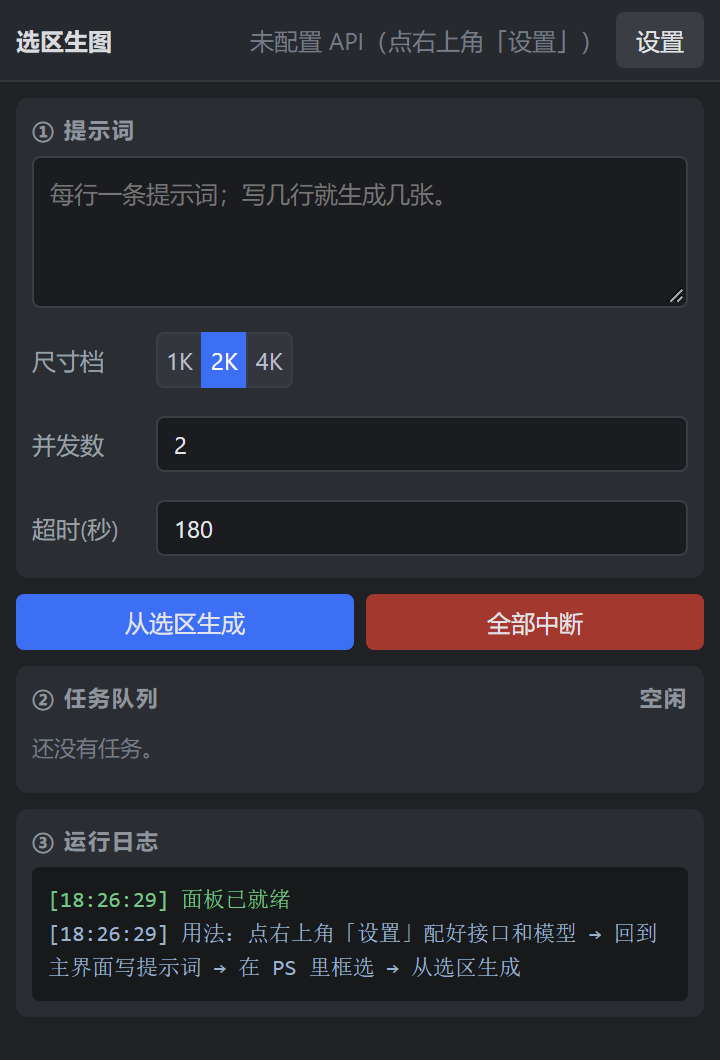
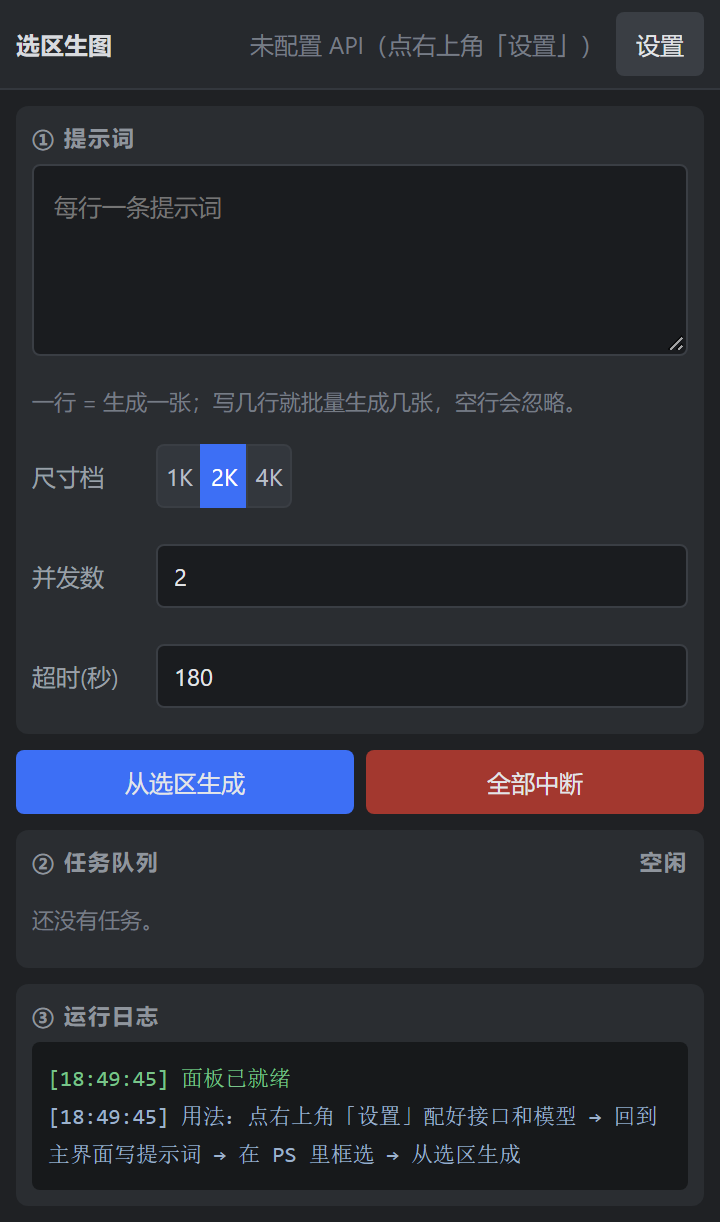
style(ui): 参数行再放宽一档，去掉会裁字的 overflow；多行框改像素行高并挪走长占位符

diff --git a/index.html b/index.html
@@ -94,14 +94,13 @@
     .row {
       display: flex;
       align-items: center;
-      height: 34px;
-      min-height: 34px;
-      max-height: 34px;
+      height: 42px;
+      min-height: 42px;
+      max-height: 42px;
       margin-bottom: 8px;
-      overflow: hidden;
     }
     .row:last-child { margin-bottom: 0; }
-    .label { width: 62px; flex: 0 0 62px; color: #9aa0a8; line-height: 34px; }
+    .label { width: 62px; flex: 0 0 62px; color: #9aa0a8; line-height: 42px; }
     .grow { flex: 1 1 auto; min-width: 0; display: flex; align-items: center; }
     input[type="text"], input[type="password"], input[type="number"], textarea, select {
       width: 100%;
@@ -118,20 +117,28 @@
        框外、上沿被裁掉，在 PS 里看到的就是「字没露全」。上下各留 4px 内边距，
        18px 行高正好填满 28px 的框。 */
     input[type="text"], input[type="password"], input[type="number"], select {
-      height: 28px;
-      min-height: 28px;
-      max-height: 28px;
+      height: 32px;
+      min-height: 32px;
+      max-height: 32px;
       min-width: 0;
-      padding: 4px 8px;
+      padding: 6px 8px;
       line-height: 18px;
     }
-    textarea { resize: vertical; min-height: 76px; padding: 8px; line-height: 1.6; }
+    /* 多行框同样要写死像素行高：写 1.6 这种相对值，UXP 会按宿主字号算，
+       算出来的行高比浏览器大，最后一行就被下沿切掉。 */
+    textarea {
+      resize: vertical;
+      height: 96px;
+      min-height: 96px;
+      padding: 10px;
+      line-height: 20px;
+    }
     button {
       background: #3a3e44;
       color: #e3e5e8;
       border: none;
       border-radius: 4px;
-      height: 28px;
+      height: 32px;
       padding: 0 10px;
       font-size: 12px;
       font-family: inherit;
@@ -144,10 +151,10 @@
     .btn-row button { flex: 1 1 0; }
     /* 档位切换：不用原生下拉框——Windows 的原生弹出列表不归我们管，
        字体和配色都会跟面板对不上。 */
-    .seg { display: flex; height: 28px; }
+    .seg { display: flex; height: 32px; }
     .seg button {
       flex: 1 1 0;
-      height: 28px;
+      height: 32px;
       min-width: 0;
       padding: 0 4px;
       border-radius: 0;
@@ -155,7 +162,6 @@
       border-right: none;
       background: #33373d;
       color: #b9bfc7;
-      overflow: hidden;
     }
     .seg button:first-child { border-radius: 4px 0 0 4px; }
     .seg button:last-child { border-radius: 0 4px 4px 0; border-right: 1px solid #3a3e44; }
@@ -170,60 +176,61 @@
       padding: 2px;
     }
     .model-item {
-      padding: 3px 6px;
+      padding: 5px 6px;
       border-radius: 3px;
       cursor: pointer;
       overflow: hidden;
       text-overflow: ellipsis;
       white-space: nowrap;
+      line-height: 18px;
     }
     .model-item.empty { color: #767c85; cursor: default; }
     .model-item.active { background: #3d6ff5; color: #fff; }
     .model-sep { color: #767c85; font-size: 11px; padding: 4px 6px 2px; }
     /* padding-top 不是装饰：UXP 里块级文字的首行会被上沿裁掉一两个像素，
        留一点顶部内边距，字才完整。 */
-    .hint { color: #767c85; font-size: 11px; margin-top: 4px; padding-top: 3px; line-height: 1.6; }
+    .hint { color: #767c85; font-size: 11px; margin-top: 4px; padding-top: 6px; line-height: 20px; }
     /* 设置页单独放宽：这一页是配一次就不常来的，可以滚动，
        所以行距、控件高度都给足，别让人点不中输入框、看不清字。
        主界面的紧凑尺寸不受影响（那里要挤下任务队列和日志）。 */
     #settingsBody { padding: 10px; }
     #settingsBody .section { padding: 10px; margin-bottom: 10px; }
     #settingsBody .row {
-      height: 42px;
-      min-height: 42px;
-      max-height: 42px;
+      height: 48px;
+      min-height: 48px;
+      max-height: 48px;
       margin-bottom: 10px;
-      overflow: hidden;
     }
     #settingsBody .row:last-child { margin-bottom: 0; }
-    #settingsBody .label { width: 66px; flex: 0 0 66px; line-height: 42px; font-size: 12px; }
+    #settingsBody .label { width: 68px; flex: 0 0 68px; line-height: 48px; font-size: 12px; }
     #settingsBody input[type="text"], #settingsBody input[type="password"] {
-      height: 34px;
-      min-height: 34px;
-      max-height: 34px;
-      padding: 6px 10px;
+      height: 36px;
+      min-height: 36px;
+      max-height: 36px;
+      padding: 7px 10px;
       line-height: 20px;
       font-size: 13px;
     }
-    #settingsBody .seg { height: 34px; }
-    #settingsBody .seg button { height: 34px; font-size: 12px; padding: 0 6px; }
+    #settingsBody .seg { height: 36px; }
+    #settingsBody .seg button { height: 36px; font-size: 12px; padding: 0 6px; }
     #settingsBody .btn-row { gap: 8px; margin-top: 10px; }
-    #settingsBody .btn-row button { height: 34px; font-size: 13px; }
-    #settingsBody .hint { font-size: 12px; line-height: 1.7; margin-top: 8px; padding-top: 3px; }
-    #settingsBody .sub-label { font-size: 12px; margin: 14px 0 6px; }
+    #settingsBody .btn-row button { height: 36px; font-size: 13px; }
+    #settingsBody .hint { font-size: 12px; line-height: 22px; margin-top: 8px; padding-top: 6px; }
+    #settingsBody .sub-label { font-size: 12px; line-height: 22px; margin: 14px 0 6px; padding-top: 2px; }
     #settingsBody .model-list { max-height: 190px; padding: 4px; }
-    #settingsBody .model-item { padding: 7px 8px; font-size: 13px; margin-bottom: 2px; }
+    #settingsBody .model-item { padding: 8px; font-size: 13px; line-height: 20px; margin-bottom: 2px; }
     #settingsBody .model-item:last-child { margin-bottom: 0; }
-    #settingsBody .model-sep { font-size: 12px; padding: 8px 8px 3px; }
+    #settingsBody .model-sep { font-size: 12px; line-height: 20px; padding: 8px 8px 3px; }
+    #settingsBody .section-title { padding-top: 2px; }
     #log {
       font-family: Consolas, monospace;
       font-size: 11px;
-      line-height: 1.55;
+      line-height: 19px;
       max-height: 160px;
       overflow-y: auto;
       background: #17191b;
       border-radius: 4px;
-      padding: 8px;
+      padding: 9px 8px 8px;
     }
     .lg-info { color: #9db2cc; }
     .lg-ok { color: #79c48a; }
@@ -267,7 +274,8 @@
 
       <div class="section">
         <div class="section-title"><span>① 提示词</span></div>
-        <textarea id="prompt" placeholder="每行一条提示词；写几行就生成几张。"></textarea>
+        <textarea id="prompt" placeholder="每行一条提示词"></textarea>
+        <div class="hint">一行 = 生成一张；写几行就批量生成几张，空行会忽略。</div>
         <div class="row" style="margin-top:6px;">
           <div class="label">尺寸档</div>
           <div class="grow">

diff --git a/CHANGELOG.md b/CHANGELOG.md
@@ -25,6 +25,9 @@
 
 ### 变更
 
+- **再放宽一档**：主界面行距 34 → 42px、单行输入框 28 → 32px、多行输入框 76 → 96px、
+  按钮与档位按钮 28 → 32px；设置页行距 42 → 48px、输入框 34 → 36px、按钮 34 → 36px，
+  模型列表每项也加高。上一版虽然不裁字了，但控件挨得还是紧，点起来和看起来都局促。
 - **设置页放宽**：这一页是配一次就不常来的，可以滚动，所以行距和控件高度都给足——
   行距 26 → 34px、单行输入框 24 → 30px、按钮 26 → 32px，标签与说明文字也各加一号。
   之前为了压住主界面那三行而钉死的紧凑尺寸只留在主界面，设置页不再跟着挤。
@@ -36,6 +39,13 @@
 
 ### 修复
 
+- **多行输入框最后一行被下沿切掉**：两处原因。一是 `line-height` 写的是相对值 `1.6`，
+  UXP 按宿主字号去算，算出来比浏览器大，行就落到框外；现在写成像素值 `20px`。
+  二是占位提示太长，在面板宽度下折成两行，第二行正好压在下沿上；现在占位符只留
+  「每行一条提示词」，完整说明挪到框下面单独一行，跟其他说明文字一样有顶部内边距。
+- **参数行仍在裁字**：`.row` 上原来挂着 `overflow: hidden`（本意是压住宿主给原生控件
+  偏大的布局盒子），但它同时也会把宿主画出来的文字裁掉。现在把行高留够（控件 32px、
+  行 42px）容纳它，去掉裁剪。
 - **输入框里的字被切掉上沿**：UXP 里原生输入控件的文字是按宿主自己的行高画的，
   我们只给了高度、没给 `line-height`，首行字就被顶到框外、上沿裁掉一条——
   在 PS 里看到的就是「字没露全」。现在单行输入框显式写 `line-height`（框内上下各留
